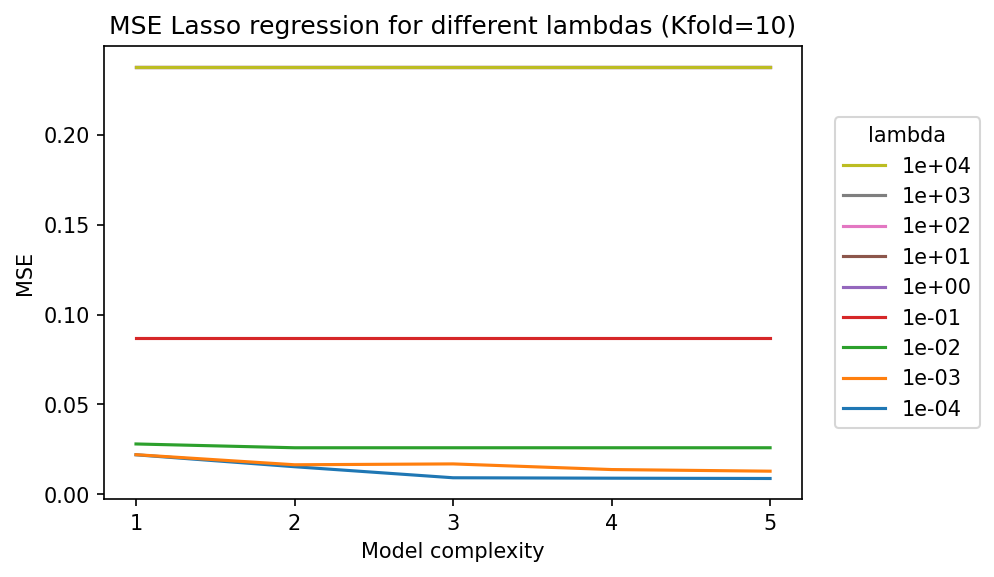
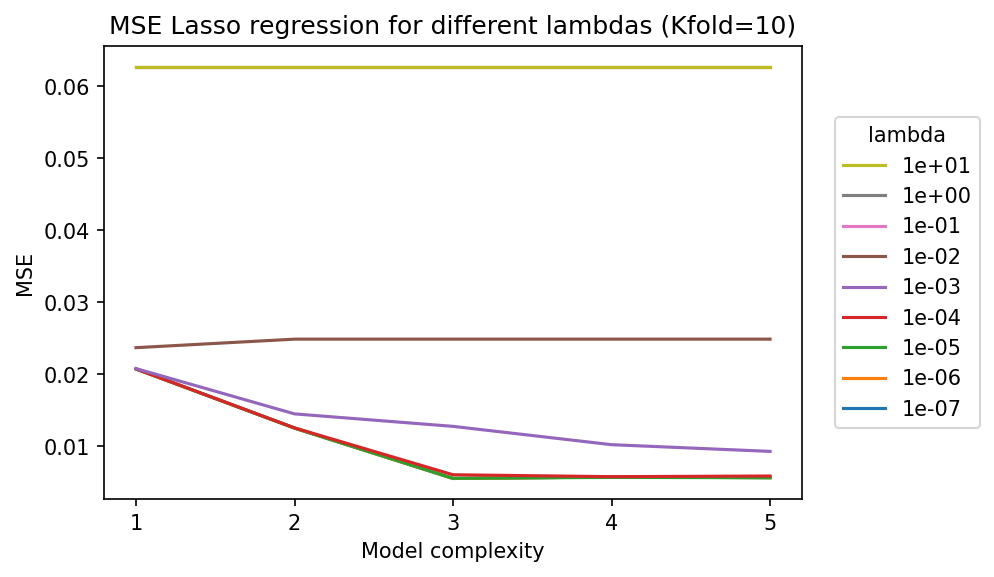
Last updates

diff --git a/Project1/10_Terrain.py b/Project1/10_Terrain.py
@@ -70,12 +70,13 @@ ax.set_zlim(-0.10, 1.40)
 ax.zaxis.set_major_locator(LinearLocator(10))
 ax.zaxis.set_major_formatter(FormatStrFormatter('%.02f'))
 ax.set_zticks([0, 500, 1000, 1500])
-# ax.axes.xaxis.set_ticklabels([])
-# ax.axes.yaxis.set_ticklabels([])
-# ax.axes.zaxis.set_ticklabels([])
+ax.axes.xaxis.set_ticklabels([])
+ax.axes.yaxis.set_ticklabels([])
+ax.axes.zaxis.set_ticklabels([])
+plt.title('Original terrain')
 # Add a color bar which maps values to colors.
 fig.colorbar(surf, shrink=0.5, aspect=5)
-#plt.savefig("plots/Terrain/Map_3D.png", dpi=150)
+plt.savefig("plots/Terrain/Map_3D.png", dpi=150)
 plt.show()
 
 #%% Cross validation in OLS
@@ -88,11 +89,11 @@ y = y.reshape(n,1)
 
 scaler = StandardScaler()
 
-scaler.fit(x)
-x_scaled = scaler.transform(x)
+# scaler.fit(x)
+# x_scaled = scaler.transform(x)
 
-scaler.fit(y)
-y_scaled = scaler.transform(y)
+# scaler.fit(y)
+# y_scaled = scaler.transform(y)
 
 z=terrain
 scaler.fit(z)
@@ -121,7 +122,7 @@ polydegree = np.zeros(maxdegree)
 i = 0
 for degree in range(maxdegree):
     polydegree[degree] = degree+1
-    X = DesignMatrix(x_scaled,y_scaled,degree+1)
+    X = DesignMatrix(x,y,degree+1)
     j = 0
     for train_inds, test_inds in kfold.split(x):
         X_train = X[train_inds]
@@ -150,7 +151,7 @@ plt.ylabel('mse')
 plt.xticks(np.arange(1, maxdegree+1, step=1))  # Set label locations.
 plt.legend()
 plt.title('K-fold Cross Validation, k = 10, OLS')
-#plt.savefig("plots/Terrain/CV_OLS.png",dpi=150)
+plt.savefig("plots/Terrain/CV_OLS.png",dpi=150)
 plt.show()
 
 
@@ -161,7 +162,8 @@ x = np.linspace(0,1, np.shape(terrain)[0])
 y = np.linspace(0,1, np.shape(terrain)[1])
 z=terrain
 
-X1 = DesignMatrix(x,y,3)
+deg=3
+X1 = DesignMatrix(x,y,deg)
 OLSbeta1 = np.linalg.pinv(X1.T @ X1) @ X1.T @ z
 ytilde1 = X1 @ OLSbeta1
 
@@ -208,7 +210,7 @@ plt.show()
 
 #set up the hyper-parameters to investigate
 nlambdas = 9
-lambdas = np.logspace(-1, 7, nlambdas)
+lambdas = np.logspace(-4, 4, nlambdas)
 
 
 # Plot all in the same figure as subplots
@@ -234,7 +236,7 @@ for l in range(nlambdas):
         j=0
         for train_inds, test_inds in kfold.split(x):
             
-            X = DesignMatrix(x_scaled,y_scaled,degree+1)
+            X = DesignMatrix(x,y,degree+1)
             
             X_train = X[train_inds]
             z_train = z_scaled[train_inds]   
@@ -268,7 +270,7 @@ handles, labels = ax.get_legend_handles_labels()
 ax.legend(handles[::-1], labels[::-1], title='lambda', loc='center right', bbox_to_anchor=(1.27, 0.5))
 
 #Save figure
-plt.savefig("plots/Terrain/CV_Ridge_lambda.png",dpi=150, bbox_inches='tight')
+#plt.savefig("plots/Terrain/CV_Ridge_lambda.png",dpi=150, bbox_inches='tight')
 plt.show()
 
 #Compare train and test performance
@@ -301,7 +303,7 @@ y = np.linspace(0,1, np.shape(terrain)[1])
 z=terrain
 
 
-deg=3
+deg=5
 lmb=10
 
 X1 = DesignMatrix(x,y,deg)
@@ -316,7 +318,7 @@ plt.title('Terrain over Norway, Ridge')
 plt.imshow(ytilde2, cmap='viridis')
 plt.xlabel('X')
 plt.ylabel('Y')
-plt.savefig("plots/Terrain/Map_v04_Ridge_pol4_lmb10.png",dpi=150)
+plt.savefig("plots/Terrain/Map_v04_Ridge_pol5_lmb10.png",dpi=150)
 plt.show()
 
 
@@ -343,9 +345,10 @@ ax.set_zticks([0, 500,1000,1500])
 ax.axes.xaxis.set_ticklabels([])
 ax.axes.yaxis.set_ticklabels([])
 ax.axes.zaxis.set_ticklabels([])
+plt.title('Ridge, pol=4, lmb=10')
 # Add a color bar which maps values to colors.
 fig.colorbar(surf, shrink=0.5, aspect=5)
-#plt.savefig("plots/Terrain/Map_3d_Ridge_pol4_lmb10.png", dpi=150)
+plt.savefig("plots/Terrain/Map_3d_Ridge_pol4_lmb10.png", dpi=150)
 plt.show()
 
 #Compare train and test performance
@@ -390,7 +393,7 @@ for l in range(nlambdas):
         j=0
         for train_inds, test_inds in kfold.split(x):
             
-            X = DesignMatrix(x_scaled,y_scaled,degree+1)
+            X = DesignMatrix(x,y,degree+1)
             
             X_train = X[train_inds]
             z_train = z_scaled[train_inds]   
@@ -424,18 +427,18 @@ handles, labels = ax.get_legend_handles_labels()
 ax.legend(handles[::-1], labels[::-1], title='lambda', loc='center right', bbox_to_anchor=(1.27, 0.5))
 
 #Save figure
-#plt.savefig("plots/Terrain/CV_Lasso_lambda.png",dpi=150, bbox_inches='tight')
+plt.savefig("plots/Terrain/CV_Lasso_lambda.png",dpi=150, bbox_inches='tight')
 plt.show()
 
 #Compare train and test performance
 plt.figure()
-plt.plot(polydegree, Etrain[:,5], label = 'KFold train')
-plt.plot(polydegree, Etest[:,5], label = 'KFold test')
+plt.plot(polydegree, Etrain[:,4], label = 'KFold train')
+plt.plot(polydegree, Etest[:,4], label = 'KFold test')
 plt.xlabel('Complexity')
 plt.ylabel('mse')
 plt.xticks(np.arange(1, maxdegree+1, step=1))  # Set label locations.
 plt.legend()
-plt.title('K-fold Cross Validation, k = 10, Lasso, lambda=0.1')
+plt.title('K-fold Cross Validation, k = 10, Lasso, lambda=0.01')
 plt.savefig("plots/Terrain/CV_Ridge.png",dpi=150)
 plt.show()
 
@@ -460,7 +463,7 @@ z=terrain
 
 
 deg=4
-lmb=0.1
+lmb=0.01
 
 X1 = DesignMatrix(x,y,deg)
 modelLasso = Lasso(lmb,fit_intercept=False)
@@ -473,7 +476,7 @@ plt.title('Terrain over Norway, Lasso')
 plt.imshow(ytilde3, cmap='viridis')
 plt.xlabel('X')
 plt.ylabel('Y')
-plt.savefig("plots/Terrain/Map_v05_Lasso_pol4_lmb0_1.png",dpi=150)
+plt.savefig("plots/Terrain/Map_v05_Lasso_pol4_lmb0_01.png",dpi=150)
 plt.show()
 
 
@@ -502,5 +505,5 @@ ax.axes.yaxis.set_ticklabels([])
 ax.axes.zaxis.set_ticklabels([])
 # Add a color bar which maps values to colors.
 fig.colorbar(surf, shrink=0.5, aspect=5)
-plt.savefig("plots/Terrain/Map_3d_Lasso_pol4_lmb0_1.png", dpi=150)
+plt.savefig("plots/Terrain/Map_3d_Lasso_pol4_lmb0_01.png", dpi=150)
 plt.show()

diff --git a/Project1/07_Ridge_CrossValidation.py b/Project1/07_Ridge_CrossValidation.py
@@ -23,7 +23,7 @@ kfold = KFold(n_splits = k)
 
 #For Ridge regression, set up the hyper-parameters to investigate
 nlambdas = 9
-lambdas = np.logspace(-4, 4, nlambdas)
+lambdas = np.logspace(-7, 1, nlambdas)
 
 
 # Generate dataset with n observations

diff --git a/Project1/09_Lasso_CrossValidation.py b/Project1/09_Lasso_CrossValidation.py
@@ -20,7 +20,7 @@ kfold = KFold(n_splits = k)
 
 #For Ridge regression, set up the hyper-parameters to investigate
 nlambdas = 9
-lambdas = np.logspace(-4, 4, nlambdas)
+lambdas = np.logspace(-7, 1, nlambdas)
 
 
 # Generate dataset with n observations

diff --git a/Project1/06_Ridge_bootstrap.py b/Project1/06_Ridge_bootstrap.py
@@ -17,7 +17,7 @@ maxdegree= 5
 
 #For Ridge regression, set up the hyper-parameters to investigate
 nlambdas = 9
-lambdas = np.logspace(-4, 4, nlambdas)
+lambdas = np.logspace(-7, 1, nlambdas)
 
 #Number of bootstraps
 n_bootstraps = 75

diff --git a/Project1/08_Lasso_bootstrap.py b/Project1/08_Lasso_bootstrap.py
@@ -20,7 +20,7 @@ maxdegree= 5
 
 #For Ridge regression, set up the hyper-parameters to investigate
 nlambdas = 9
-lambdas = np.logspace(-4, 4, nlambdas)
+lambdas = np.logspace(-7, 1, nlambdas)
 
 #Number of bootstraps
 n_bootstraps = 75
